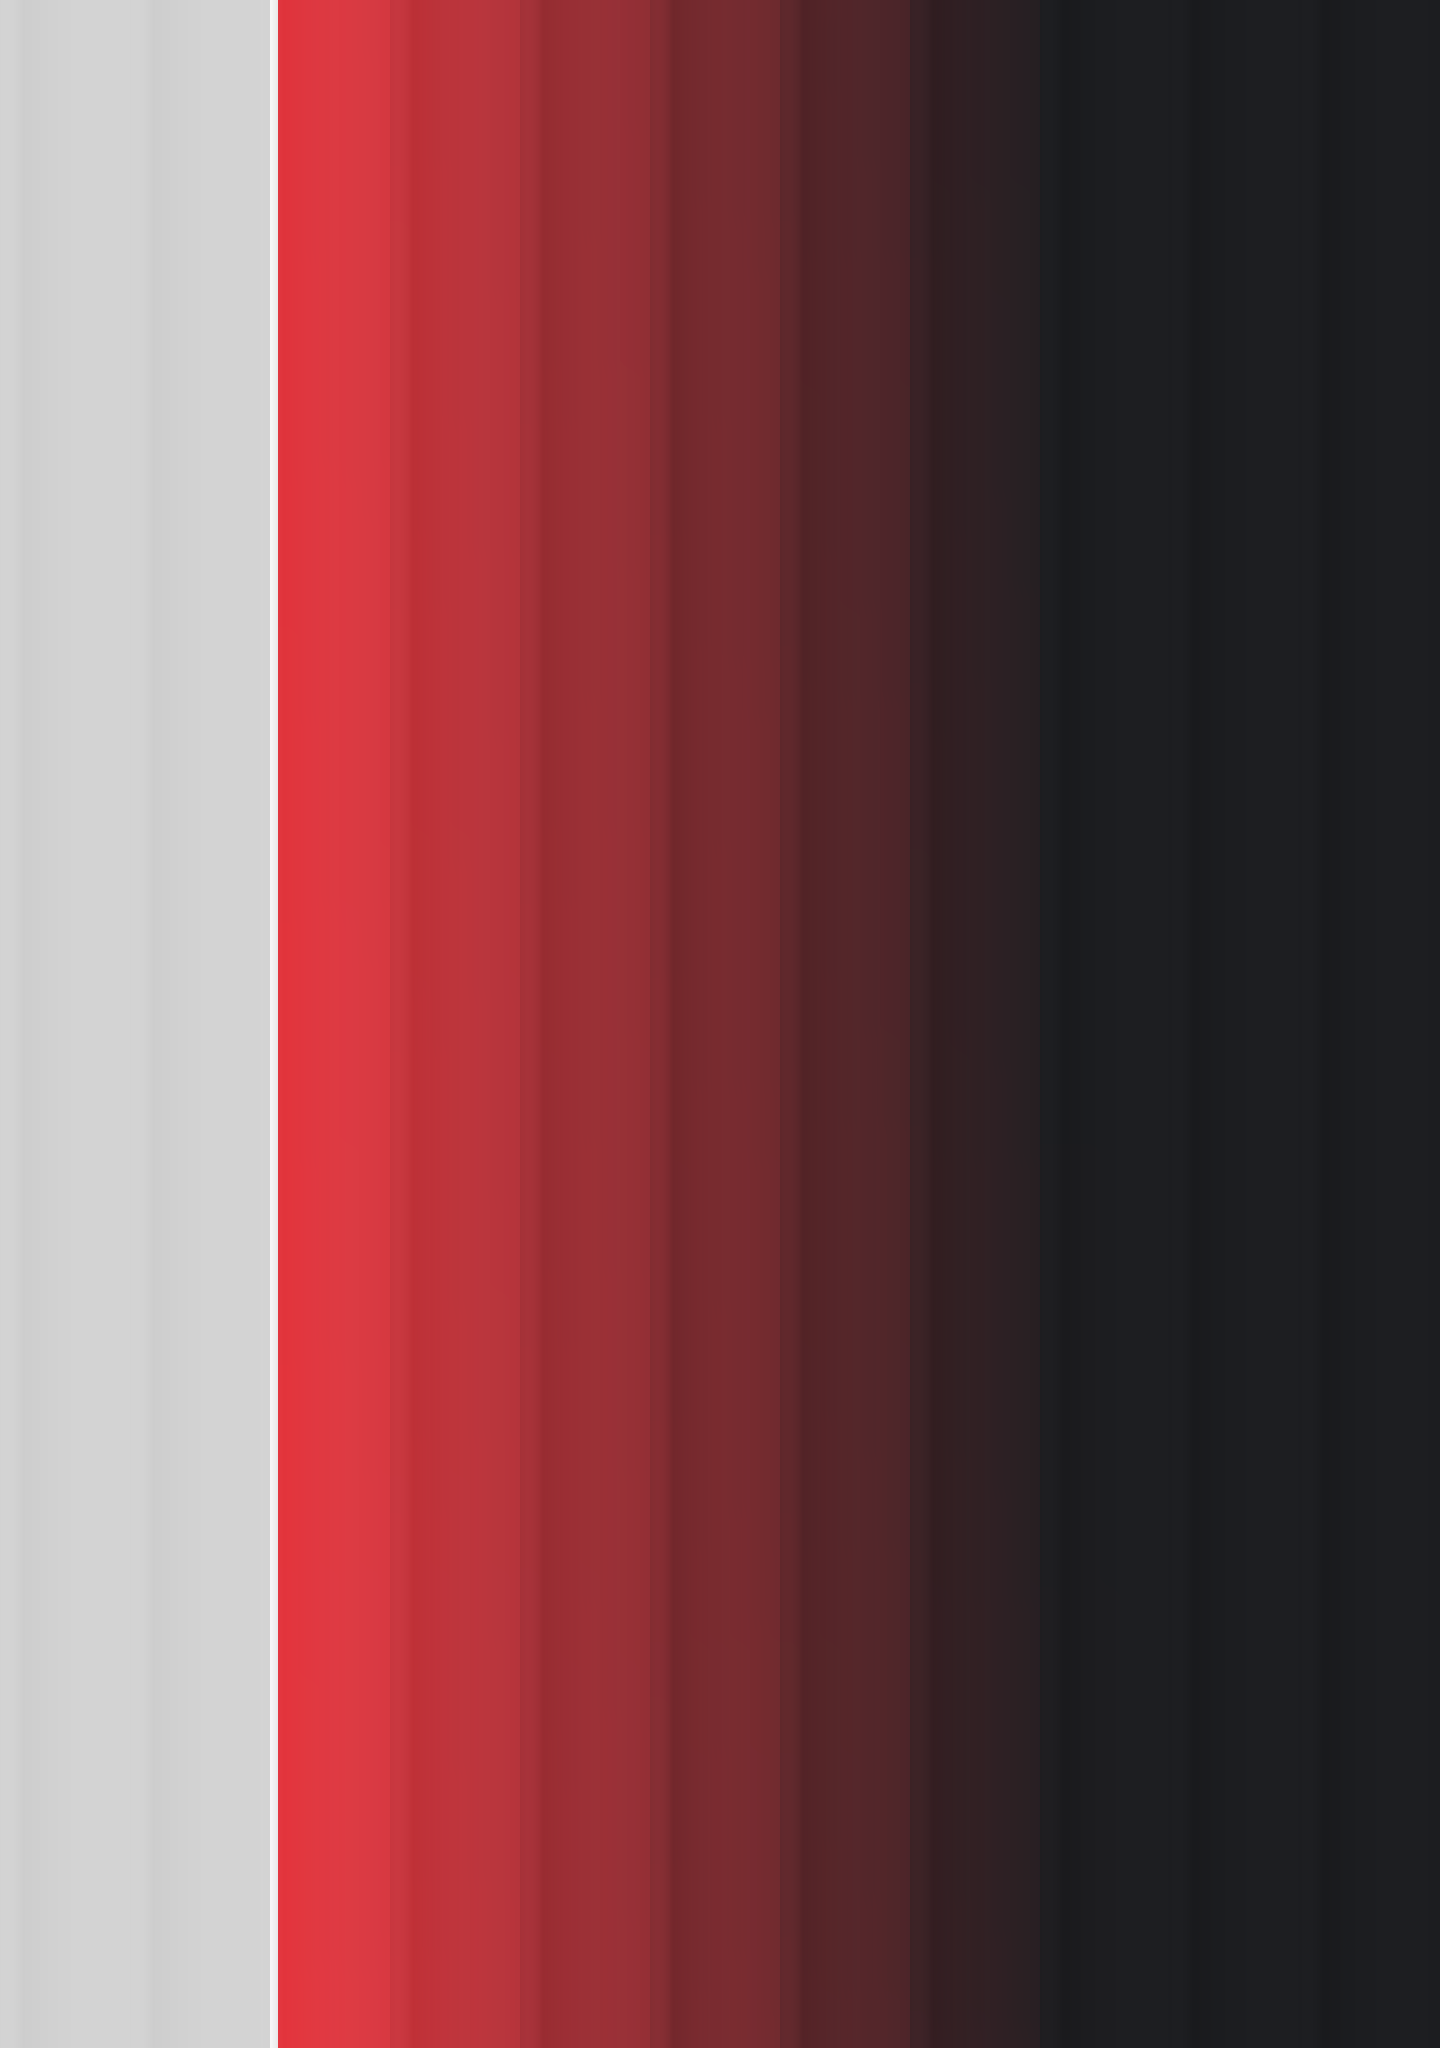
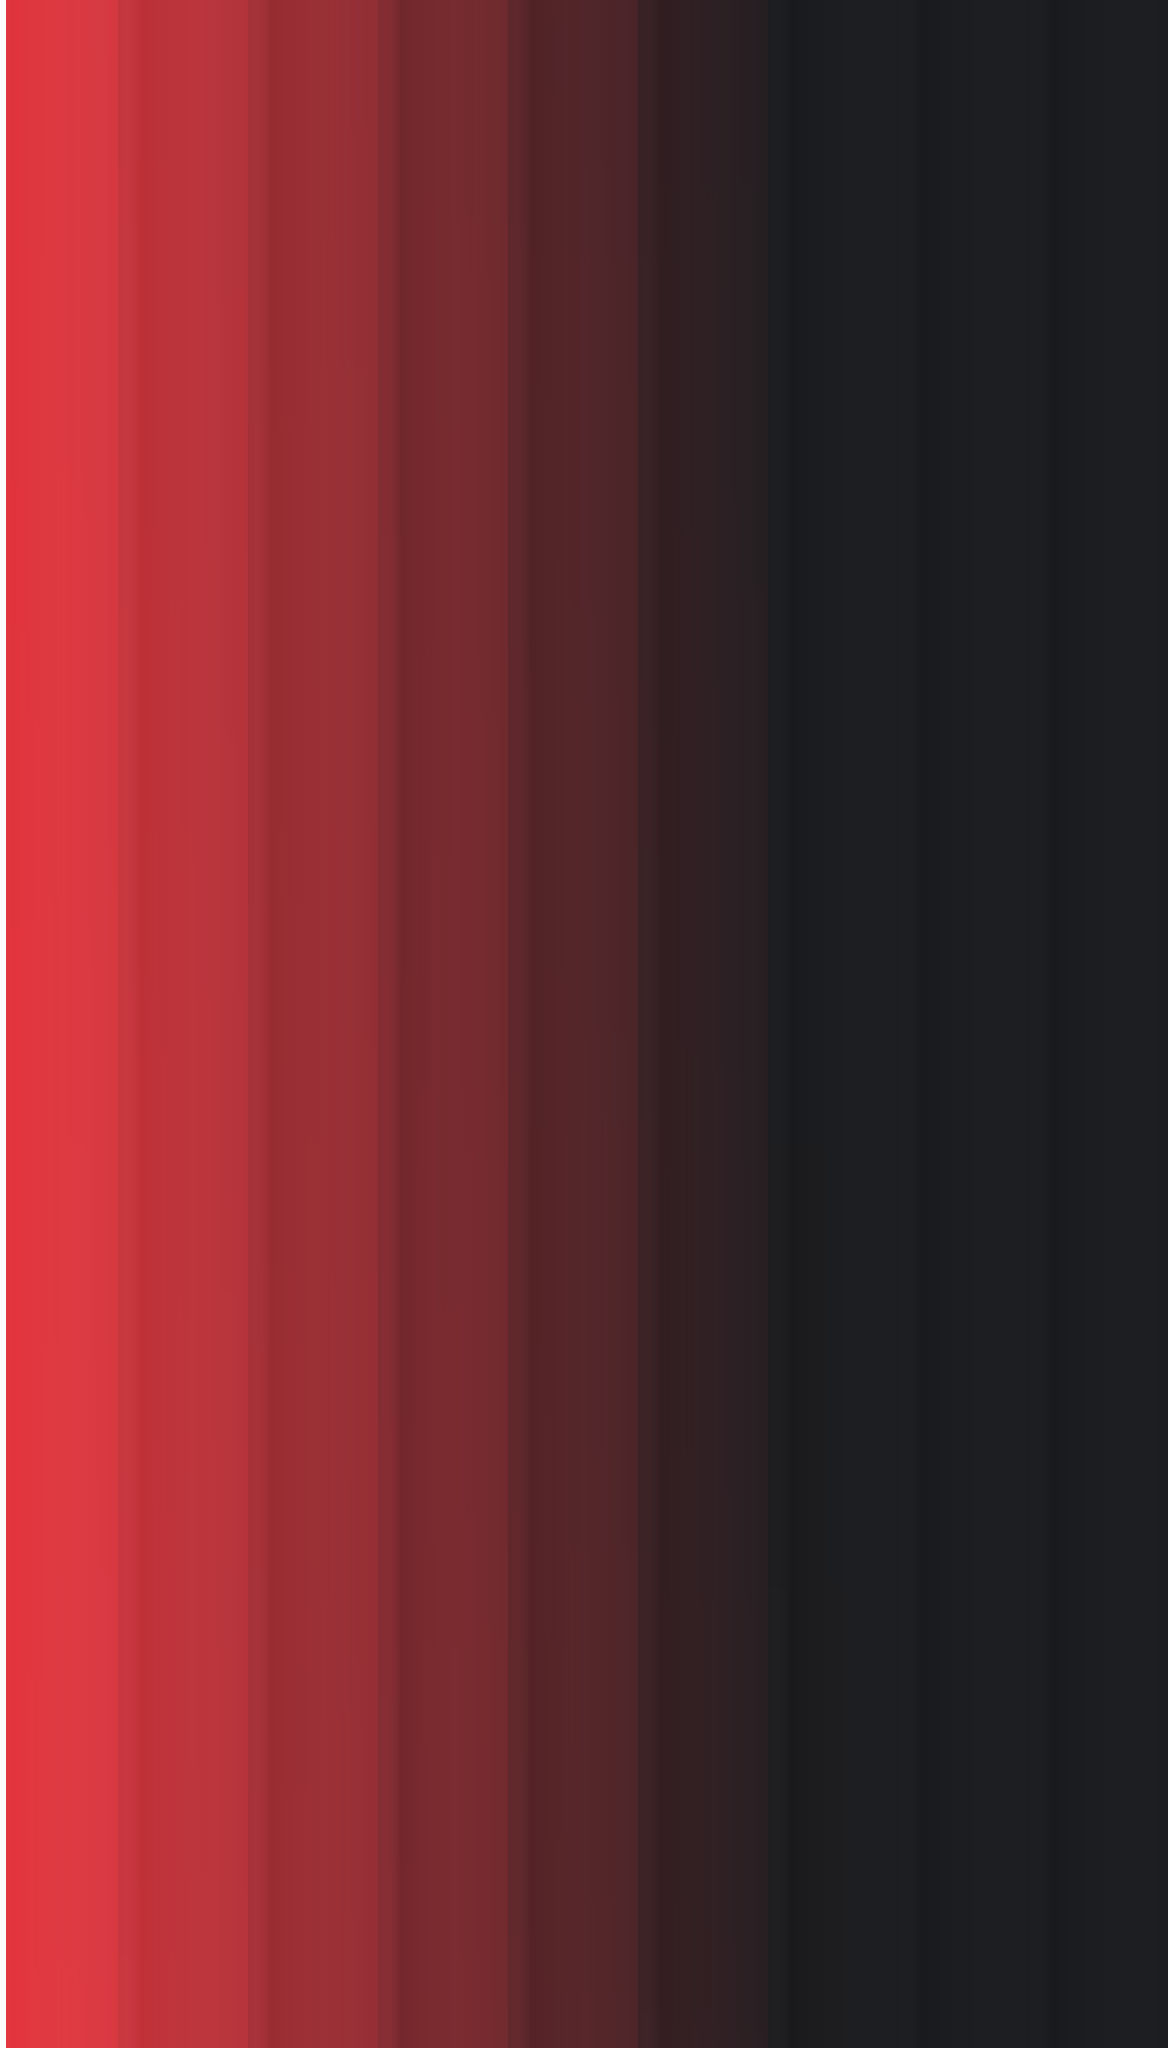
hero

diff --git a/src/css/hero.css b/src/css/hero.css
@@ -1,77 +1,159 @@
+/* ====================MOB================== */
 .hero-section {
-  width: 1440px;
-  height: 900px;
-  flex-shrink: 0;
+    margin: 0 auto;
+      background-image: url(/img/hero/Hero-mob.png);
+      background-repeat: no-repeat;
+      background-position: left;
+      max-width: 375px;
+      height: 812px;
 }
 
-.hero-title {
-  color: #fafafa;
-
-  font-family: 'Inter Tight';
-  width: 1084px;
-  height: 270px;
-  font-size: 90px;
-  font-style: normal;
-  font-weight: 500;
-  line-height: 90px;
-  letter-spacing: -2.7px;
-  text-transform: uppercase;
-  position: absolute;
-  padding-left: 178px;
-  padding-top: 270px;
+@media screen and (min-device-pixel-ratio: 2),
+(min-resolution: 192dpi),
+(min-resolution: 2dppx) {
+  .hero-section {
+    background-image: url(../img/hero/Hero-mob@2x.png)
+  }
+}
+.hero-title{
+    position: absolute;
+    width: 343px;
+    top: 281px;
+    bottom: 281px;
+    color: rgb(250, 250, 250);
+    font-size: 50px;
+    font-weight: 500;
+    line-height: 50px;
+    text-transform: uppercase;
 }
 
-.title-png {
-  position: relative;
+.all-links{
+    position: absolute;
+      top: 122%;
+      display: flex;
+      gap: 4px;
 }
-
 .circle-link {
   display: flex;
-  padding: 18px 18px;
   justify-content: center;
   align-items: center;
-  gap: 10px;
   border-radius: 60px;
   border: 1px solid rgba(250, 250, 250, 0.2);
-  width: 18px;
-  height: 18px;
+  width: 37px;
+  height: 37px;
 }
 
 .text-link {
-  color: #fafafa;
-
-  font-family: 'Inter Tight';
-  font-size: 16px;
-  font-style: normal;
+  color: rgb(250, 250, 250);
+  font-size: 14px;
   font-weight: 500;
-  line-height: normal;
-  letter-spacing: -0.32px;
+  line-height: 17px;
 }
 
 .circle-email {
   display: flex;
-  padding: 18px 24px;
   justify-content: center;
   align-items: center;
-  gap: 10px;
   border-radius: 60px;
   border: 1px solid rgba(250, 250, 250, 0.2);
-  width: 223px;
-  height: 36px;
+  width: 178px;
+    height: 37px;
 }
 
 .text-email {
-  color: #fafafa;
-
-  font-family: 'Inter Tight';
-  font-size: 16px;
-  font-style: normal;
+  color: rgb(250, 250, 250);
+  font-size: 14px;
   font-weight: 500;
-  line-height: normal;
-  letter-spacing: -0.32px;
+  line-height: 17px;
+}
+/* --------------------------------tab----------------------- */
+
+@media screen and (min-width: 768px) {
+  .container {
+    max-width: 768px;
+    padding: 0 33px;
+  }
+
+  .hero-section {
+    margin: 0 auto;
+    background-image: url(../img/hero/Hero-tab.png);
+    background-repeat: no-repeat;
+    max-width: 768px;
+    height: 1024px;
+  }
+.hero-title{
+  font-size: 90px;
+  font-weight: 500;
+  line-height: 90px;
+  width: 700px;
+}
+.all-links {
+  top: 77%;
+  right:33px;
+  gap: 8px;
 }
 
-.all-links {
-  display: flex;
-  position: absolute;
+.circle-link {
+  width: 55px;
+  height: 55px;
 }
+
+.text-link {
+  font-size: 16px;
+  line-height: 19px;
+}
+
+.circle-email {
+  width: 223px;
+  height: 55px;
+}
+
+.text-email {
+  font-size: 16px;
+  line-height: 19px;
+}
+
+  @media screen and (min-device-pixel-ratio: 2),
+  (min-resolution: 192dpi),
+  (min-resolution: 2dppx) {
+    .hero-section {
+      background-image: url(../img/hero/Hero-tab@2x.png)
+    }
+  }
+
+}
+
+/* ------------------------desc---------------------------- */
+@media screen and (min-width: 1440px) {
+  .container {
+    max-width: 1440px
+  }
+
+  .hero-section {
+    margin: 0 auto;
+    background-image: url(../img/hero/Hero-desc.png);
+    background-repeat: no-repeat;
+    background-position: left;
+    max-width: 1440px;
+    height: 900px;
+  }
+
+  @media screen and (min-device-pixel-ratio: 2),
+  (min-resolution: 192dpi),
+  (min-resolution: 2dppx) {
+    .hero-section {
+      background-image: url(../img/hero/Hero-desc@2x.png);
+    }
+  }
+    .hero-title {
+      left: 178px;
+      font-size: 90px;
+      font-weight: 500;
+      line-height: 90px;
+      width: 1084px;
+    }
+  
+    .all-links {
+      top: 80%;
+    }
+  }

diff --git a/src/partials/hero.html b/src/partials/hero.html
@@ -1,8 +1,10 @@
 <section class="hero-section">
-  <div class="hero-container">
-    <div class="title-png">
-      <h1 class="hero-title">Hello.I`m fullstack developer Lloyd Jefferson.</h1>
-    </div>
+  <div class="container">
+    <h1 class="hero-title">
+      Hello. <br />
+      I`m fullstack developer <br />
+      Lloyd Jefferson.
+    </h1>
     <ul class="all-links">
       <li class="circle-link">
         <a
@@ -44,6 +46,5 @@
         </address>
       </li>
     </ul>
-    <img src="../img/hero/Hero-desc.png" alt="" />
   </div>
 </section>
